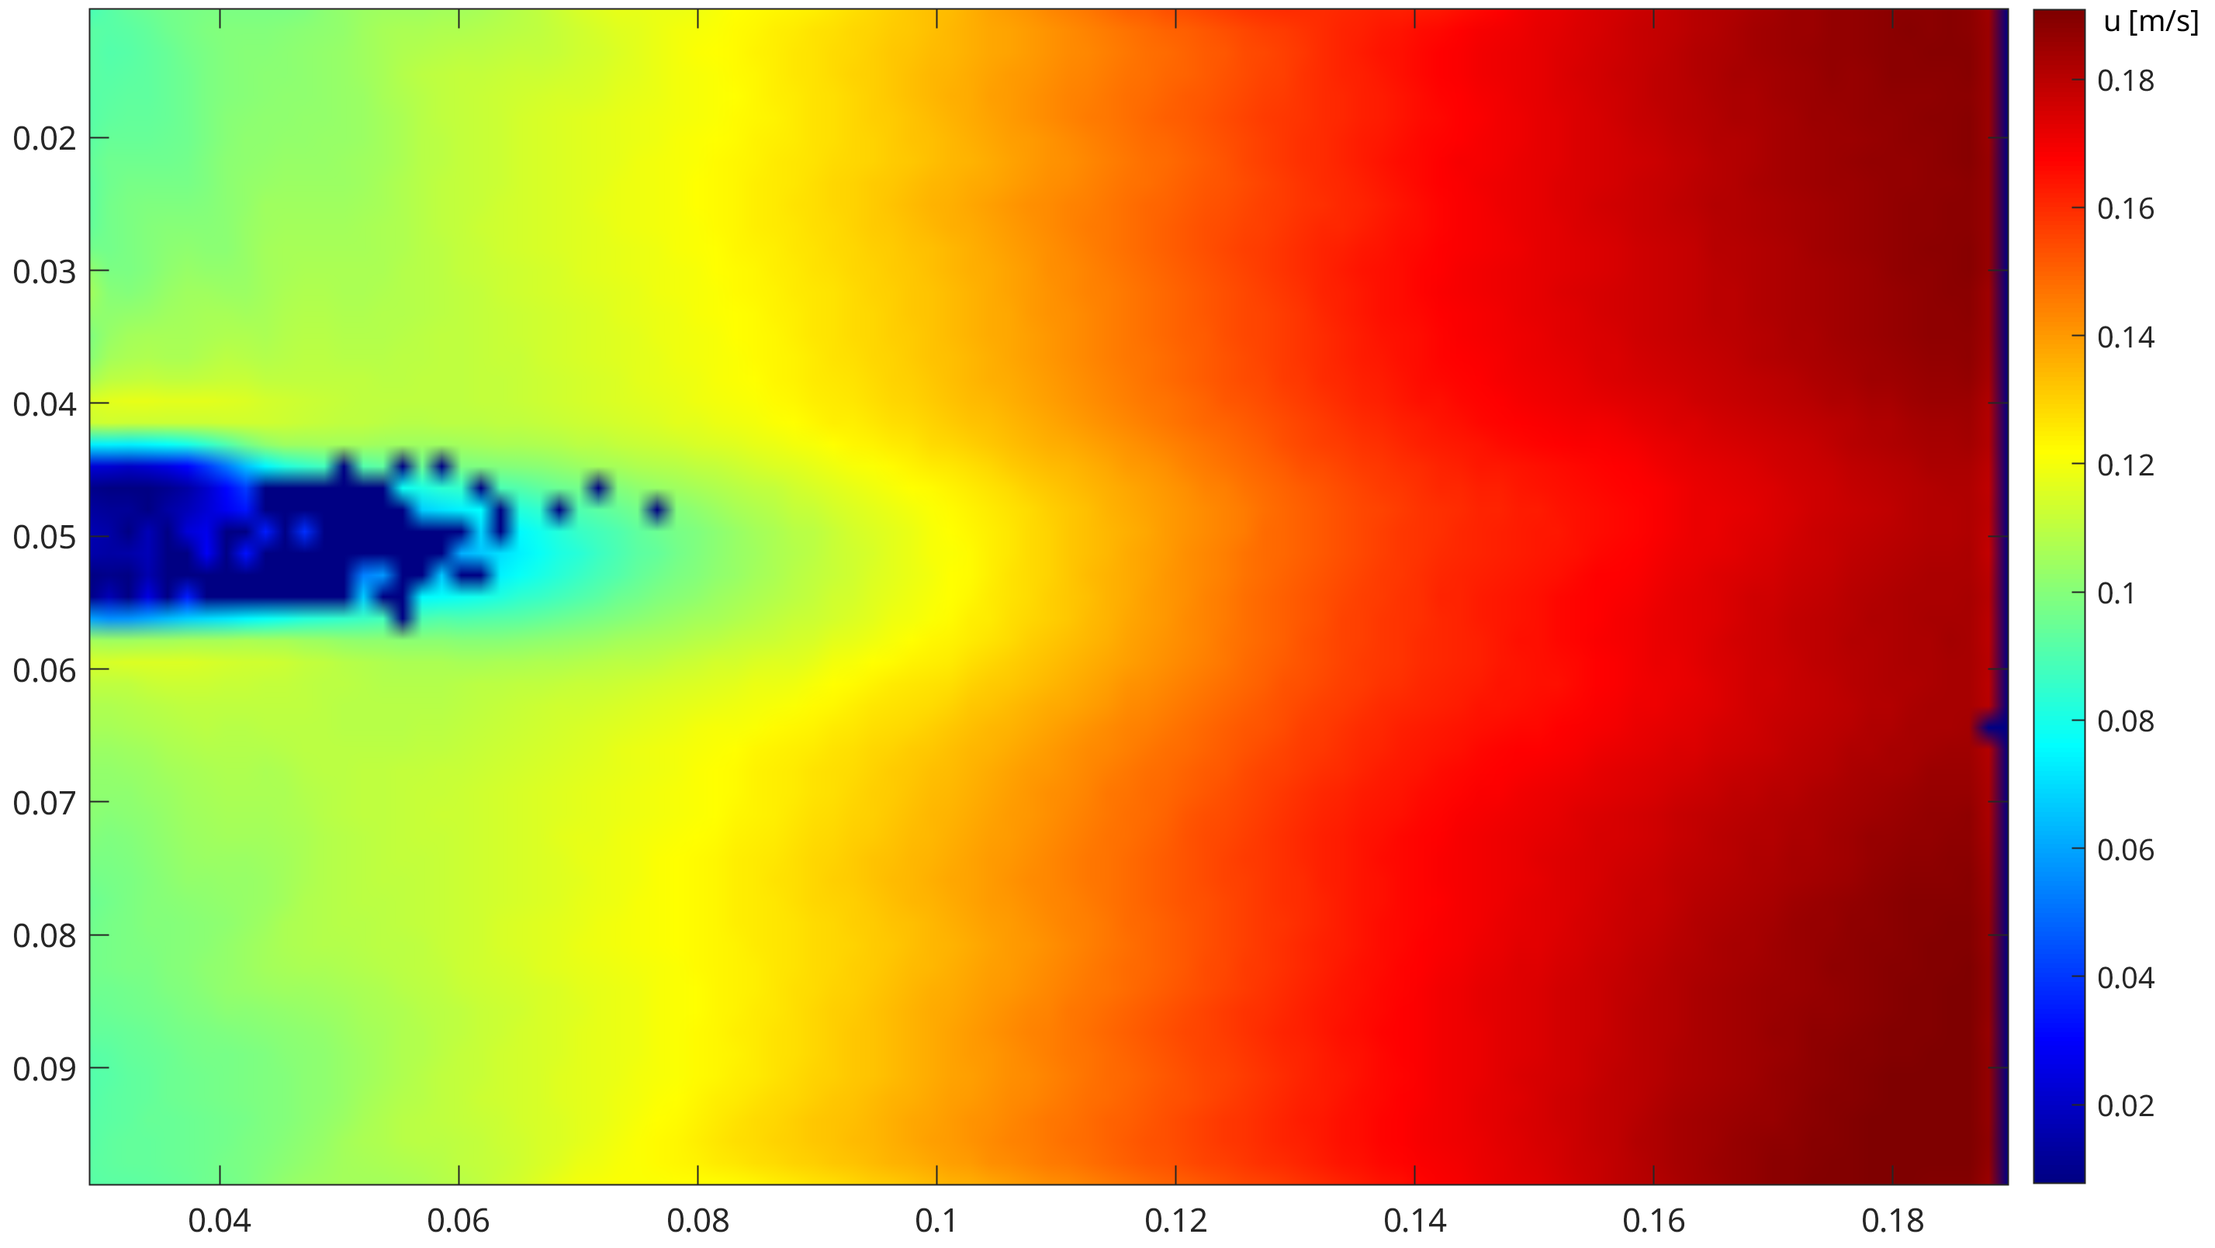
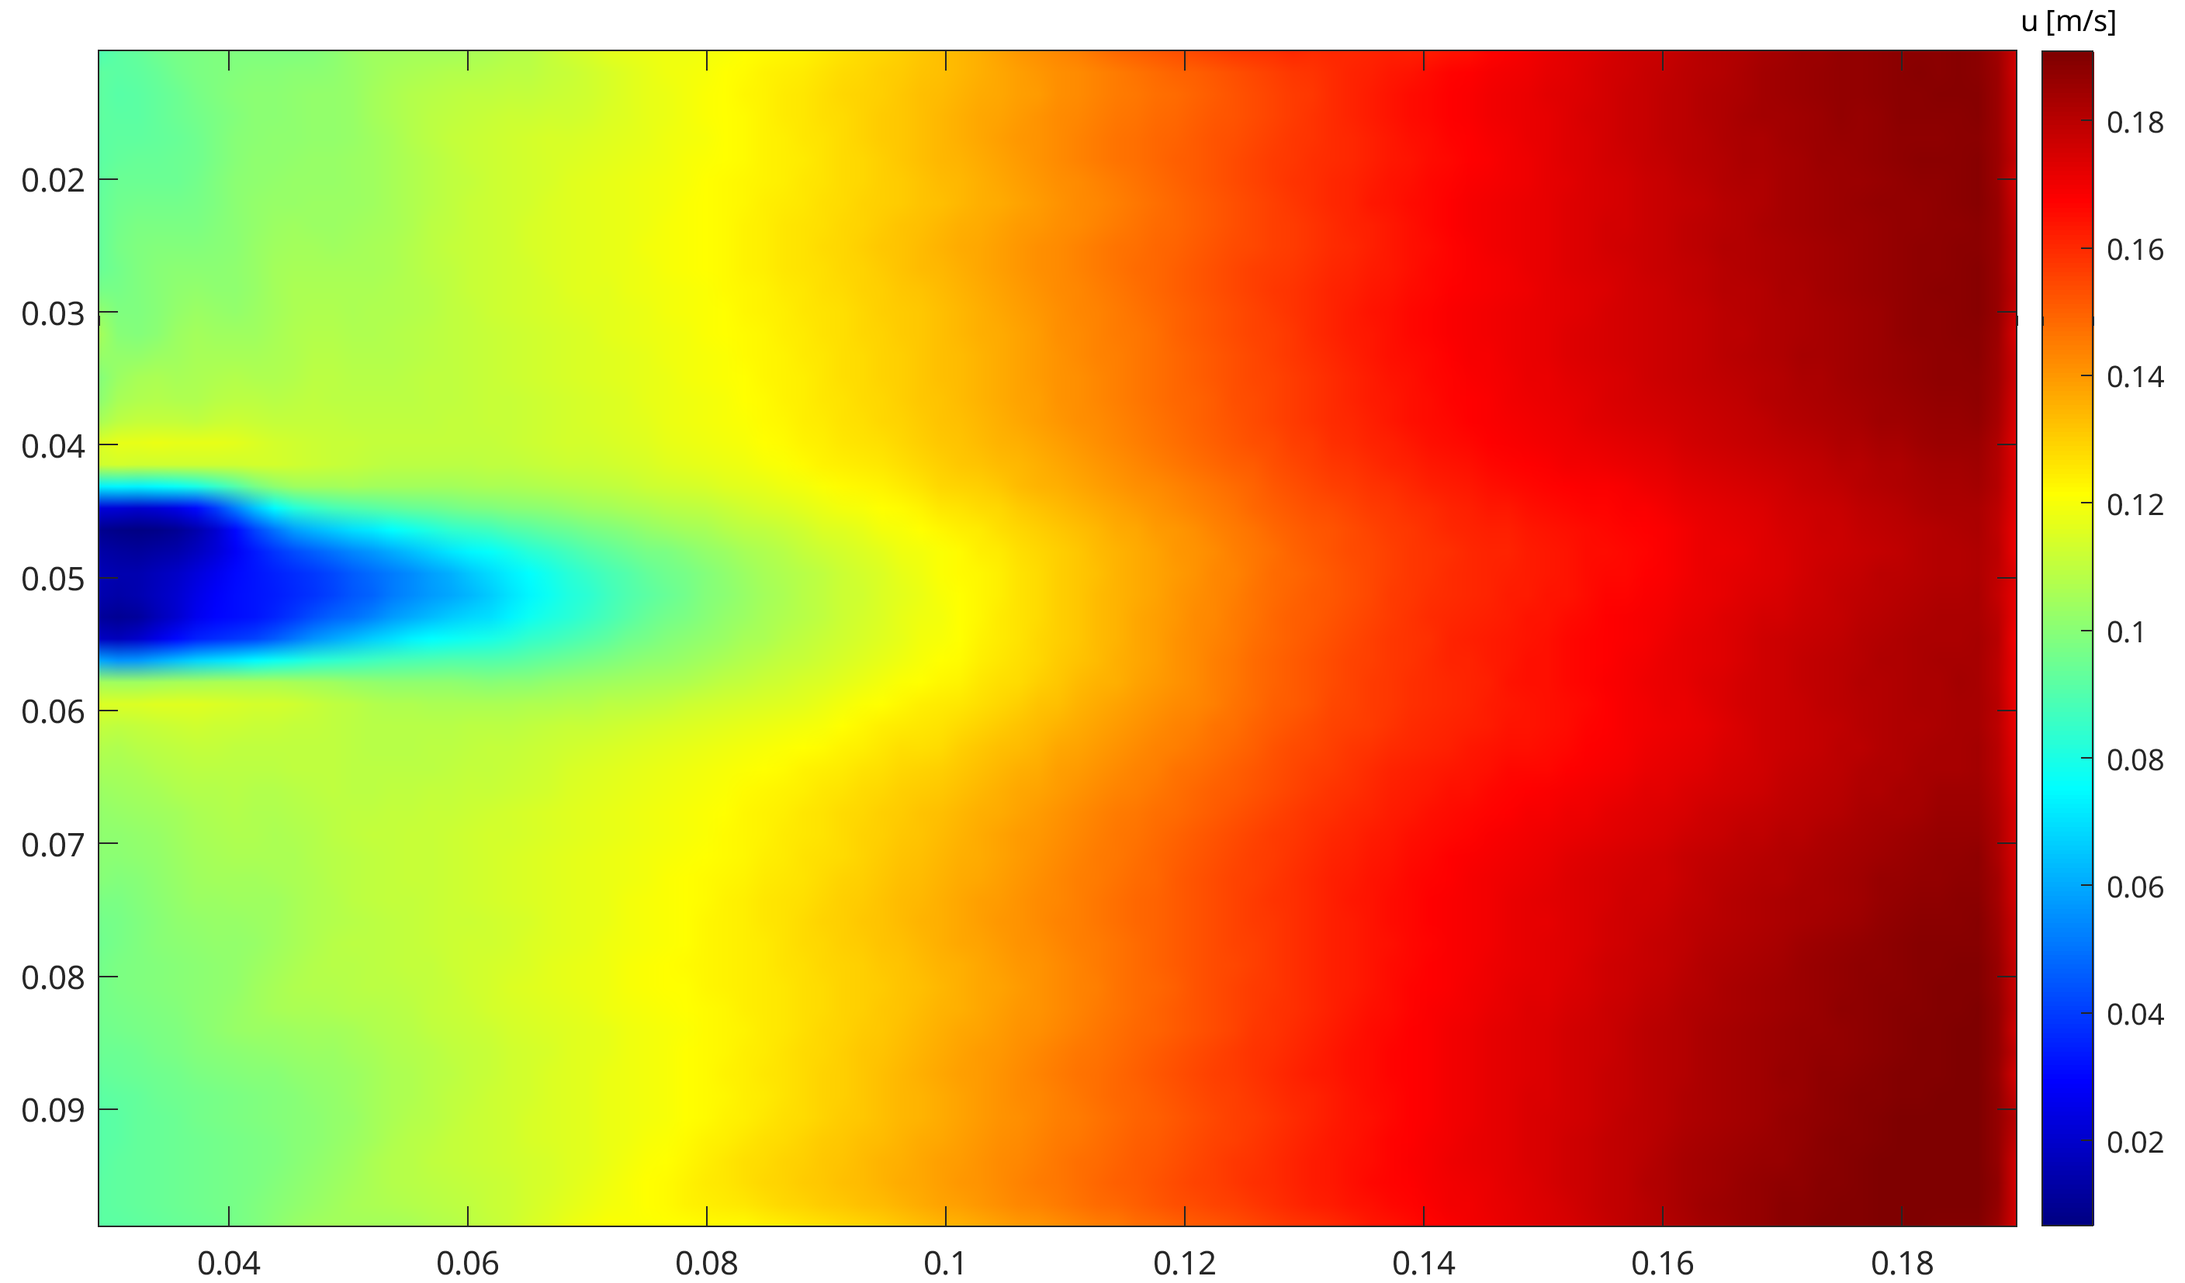
Chapter 11

Changed region(s): [[0.0, 0.0, 1.0, 0.9944]]

diff --git a/chapters/11.tex b/chapters/11.tex
@@ -116,12 +116,12 @@ Il toolbox PIVlab comprende gli algoritmi numerici della PIV con cui si può val
 \subsection{Analisi dati}
 L'analisi dati per la presente attività è condotta con l'ausilio di alcuni codici in Matlab, riportati in appendice \ref{b11}.\\\\
 I file \texttt{.mat} esportati da PIVlab contengono i campi di velocità per ciascun fotogramma dei video analizzati. Utilizzando un codice Matlab, è possibile generare delle animazioni che mostrano il campo di velocità, con una scala di colori per rappresentare l'intensità e delle frecce per indicare la direzione del flusso.
-\subsubsection{Campo di velocità istantanea}
+\subsubsection{Campo istantaneo di velocità}
 Estraendo il campo di velocità in un determinato istante, si ottiene il campo di velocità istantaneo:
 \begin{figure}[H]
     \centering
-    \includegraphics[height=.52\textwidth]{images/11/f300_22b.png}
-    \includegraphics[height=.5\textwidth]{images/11/f300_220.png}
+    \includegraphics[height=.45\textwidth]{images/11/f300_22b.png}
+    \includegraphics[height=.45\textwidth]{images/11/f300_220.png}
     \caption{Campo istantaneo di velocità (cilindro e placca 2022)}
 \end{figure}
 
@@ -135,39 +135,67 @@ Estraendo il campo di velocità in un determinato istante, si ottiene il campo d
 
 \noindent Si osserva come il flusso aumenta di velocità, ciò è dovuto alla geometria convergente del canale idrodinamico. Si osserva inoltre molto chiaramente lo sfilamento vorticoso.
 
-\subsubsection{Campo di velocità media}
+\subsubsection{Campo medio di velocità}
 Mediando il campo di velocità nel tempo, considerando quindi tutti i fotogrammi, si ottiene il seguente diagramma:
 \begin{figure}[H]
     \centering
-    \includegraphics[width=.92\textwidth]{images/11/mean.png}
+    \includegraphics[width=.9\textwidth]{images/11/mean.png}
     \caption{Campo medio di velocità (cilindro 2022)}
 \end{figure}
 
 \noindent Si può pensare di mediare solo le componenti longitudinali $u$ e trasversali $v$ al condotto:
 \begin{figure}[H]
     \centering
-    \includegraphics[width=.92\textwidth]{images/11/Umean.png}
-    \caption{Componente longitudinale della velocità media $u$ (cilindro 2022)}
+    \includegraphics[width=.9\textwidth]{images/11/Umean.png}
+    \caption{Velocità media longitudinale $u$ (cilindro 2022)}
 \end{figure}
 
 \begin{figure}[H]
     \centering
-    \includegraphics[width=.8\textwidth]{images/11/vmean.png}
-    \caption{Componente trasversale della velocità media $v$ (cilindro 2022)}
+    \includegraphics[width=.9\textwidth]{images/11/vmean.png}
+    \caption{Velocità media trasversale $v$ (cilindro 2022)}
 \end{figure}
 
+\noindent Si evince come la componente dominante della velocità del flusso è quella longitudinale.
+
+\subsubsection{Fluttuazioni di velocità}
+Si procede al calcolo delle fluttuazioni di velocità sottraendo in ogni punto la velocità media temporale:
+\begin{equation*}
+    u^\prime(t) = u(t) - \overline u \qquad v^\prime(t) = v(t) - \overline v  
+\end{equation*}
+Diagrammando le fluttuazioni di velocità per uno specifico fotogramma, si osserva molto chiaramente il fenomeno dello sfilamento vorticoso:
+\begin{figure}[H]
+    \centering
+    \includegraphics[width=.95\textwidth]{images/11/flutt.png}
+    \caption{Campo delle fluttuazioni di velocità $\vec V^\prime$ (cilindro 2022)}
+\end{figure}
+\begin{figure}[H]
+    \centering
+    \includegraphics[width=.97\textwidth]{images/11/fluttu.png}
+    \caption{Fluttuazioni di velocità longitudinale $u^\prime$ (cilindro 2022)}
+\end{figure}
+\begin{figure}[H]
+    \centering
+    \includegraphics[width=.97\textwidth]{images/11/fluttv.png}
+    \caption{Fluttuazioni di velocità trasversale $v^\prime$ (cilindro 2022)}
+\end{figure}
+
+\noindent Dal diagramma delle fluttuazioni di velocità trasversale si evince come i vortici siano controrotanti.
+
+\newpage
 \subsubsection{Vortex shedding}
 Per studiare il vortex shedding si può tracciare un diagramma della velocità in funzione del tempo in un punto fisso nello spazio, in corrispondenza dei vortici che si generano. Si ottengono quindi i seguenti risultati:
 \begin{figure}[H]
     \centering
-    \includegraphics[width=.46\textwidth]{images/11/timeseries22.png}
-    \includegraphics[width=.46\textwidth]{images/11/timeseries23.png}
-    \includegraphics[width=.46\textwidth]{images/11/timeseries220.png}
+    \includegraphics[width=.55\textwidth]{images/11/timeseries22.png}
+    \includegraphics[width=.49\textwidth]{images/11/timeseries23.png}
+    \includegraphics[width=.49\textwidth]{images/11/timeseries220.png}
     \caption{Velocità in un punto (cilindro 2022, cilindro 2023, placca 2022)}
 \end{figure}
 
-\noindent Dai diagrammi nel dominio del tempo si evince la presenza di una frequenza dominante, che caratterizza lo sfilamento vorticoso. Una rappresentazione più efficace può essere fatta sfruttando lo spettro di potenza.\\\\
-Questa volta, però, il metodo di Welch non è una soluzione efficiente, in quanto il numero di frame acquisiti (600) è troppo basso per ottenere una stima accurata dello spettro di potenza utilizzando questo approccio. La frequenza di campionamento delle immagini (pari a $f_{samp}=60$ Hz) comporta, secondo il teorema di Nyquist, una massima frequenza rilevabile di 30 Hz. Tuttavia, dato che il segnale non presenta rumore significativo, è più efficiente utilizzare direttamente la FFT (Fast Fourier Transform):
+\noindent Dai diagrammi nel dominio del tempo si evince la presenza di una frequenza dominante, che caratterizza lo sfilamento vorticoso.\\\\
+Una rappresentazione più efficace può essere fatta sfruttando lo spettro di potenza.\\\\
+Questa volta, però, il metodo di Welch non è una soluzione efficiente, in quanto il numero di fotogrammi acquisiti (600) è molto basso. Dato che il segnale non presenta rumore significativo, è più efficiente utilizzare direttamente la FFT (Fast Fourier Transform):
 \begin{equation*}
     \hat u(f) = \Delta t_{samp} \sum_{i=1}^{N_{frames}} u_i e^{-j2\pi f_i \Delta t_{samp}}
 \end{equation*}
@@ -175,25 +203,29 @@ La FFT fornisce una rappresentazione spettrale accurata senza la necessità di s
 Applicando la FFT ai segnali, si ottiene:
 \begin{figure}[H]
     \centering
-    \includegraphics[width=.49\textwidth]{images/11/FFT22.png}
+    \includegraphics[width=.6\textwidth]{images/11/FFT22.png}
     \includegraphics[width=.49\textwidth]{images/11/FFT23.png}
     \includegraphics[width=.49\textwidth]{images/11/FFT220.png}
     \caption{Trasformata di Fourier (cilindro 2022, cilindro 2023, placca 2022)}
 \end{figure}
 
-\noindent Per ricavare lo spettro di potenza dai risultati della FFT, si calcola il modulo al quadrato e si normalizza rispetto al numero di fotogrammi $N_{frames}$:
+\noindent Si osservano dei picchi nella trasformata di Fourier in corrispondenza della frequenza di svilamento dei vortici. I risultati della FFT cambiano a seconda del punto analizzato nello spazio, ma la frequenza che caratterizza lo sfilamento vorticoso rimane la stessa.\\\\
+Per ricavare lo spettro di potenza dai risultati della FFT, si calcola il modulo al quadrato e si normalizza rispetto al numero di fotogrammi acquisiti $N_{frames}$:
 \begin{equation*}
-    P(f) = \left| \frac{\hat u(f)}{N_{frames}} \right|^2
+    P(f) = \frac{ \left|\hat u(f)\right|^2}{N_{frames}} 
 \end{equation*}
+\newpage
+\noindent Successivamente, si diagramma lo spettro di potenza in scala logaritmica:
 \begin{figure}[H]
     \centering
-    \includegraphics[width=.49\textwidth]{images/11/PSD22.png}
+    \includegraphics[width=.55\textwidth]{images/11/PSD22.png}
     \includegraphics[width=.49\textwidth]{images/11/PSD23.png}
-    \includegraphics[width=.55\textwidth]{images/11/PSD220.png}
+    \includegraphics[width=.49\textwidth]{images/11/PSD220.png}
     \caption{Spettro di potenza (cilindro 2022, cilindro 2023, placca 2022)}
 \end{figure}
 
-\noindent Dallo spettro di potenza si ricava la frequenza di shedding $f_s$, inoltre, si può stimare la velocità a monte del flusso $U_\infty$ da un punto non influenzato dai vortici. Si ottiene:
+\noindent Dallo spettro di potenza si ricava quindi il valore di frequenza di shedding $f_s$.\\\\
+Inoltre, si può stimare la velocità a monte del flusso $U_\infty$ prendendo in considerazione un punto non appartenente alla scia. Si ottiene:
 \begin{table}[H]
     \centering
     \begin{tabular}{|c|c|c|}
@@ -234,49 +266,45 @@ Si ottengono i seguenti risultati:
 
 \noindent Il flusso che si sviluppa non risulta essere quello canonico 2D per via della sua dimensione finita che appoggia sulla parete inferiore della camera di prova. Inoltre, il piano di misura è a un diametro di distanza dal fondo, dove si sviluppa il vortice a ferro di cavallo (horseshoe vortex) e sono presenti effetti tridimensionali dovuti all'induzione del vortice. Per questi motivi i casi da studiare differiscono dai flussi canonici bidimensionali, pertanto, l'andamento Reynolds-Strouhal si discosta leggermente da quello studiato per il cilindro 2D utilizzando l'anemometria a filo caldo.
 
-\newpage
-\subsubsection{Fluttuazioni di velocità}
-Si procede al calcolo delle fluttuazioni di velocità sottraendo in ogni punto la velocità media temporale:
-\begin{equation*}
-    u^\prime(t) = u(t) - \overline u \qquad v^\prime(t) = v(t) - \overline v  
-\end{equation*}
-Diagrammando le fluttuazioni di velocità per uno specifico fotogramma, si osserva molto chiaramente il fenomeno dello sfilamento vorticoso:
-% immagine cilindro 22 shedding fluttuazioni istantanee u
-% immagine cilindro 22 shedding fluttuazioni istantanee v
-
-\subsubsection{Conservazione dell'energia (Parseval)}
-Dalle fluttuazioni si può inoltre ricavare la varianza:
-\begin{equation*}
-    \text{var}(\vec V) = \overline{{V^\prime}^2} = \frac 1{N_{frames}} \sum ({u^\prime}^2 + {v^\prime}^2)
-\end{equation*}
+\subsubsection{Conservazione dell'energia (Teorema di Parseval)}
 Secondo il teorema di Parseval, l'energia totale di un segnale nel dominio del tempo è uguale all'energia totale nel dominio delle frequenze. Applicando il teorema al caso in esame, la varianza delle fluttuazioni nel dominio del tempo deve essere uguale all'integrale dello spettro di potenza nel dominio delle frequenze.\\\\
-Considerando un segnale reale $x(t)$, la sua trasformata di Fourier $X(f)$ gode della proprietà di simmetria coniugata, cioè:
+La varianza delle fluttuazioni di velocità si ottiene come:
+\begin{equation*}
+    \text{var}(\vec V) = \overline{{V^\prime}^2} = \frac 1{N_{frames}} \sum_{i=1}^{N_{frames}} \left|{\vec V_i} - {\overline {\vec V}}\right|^2
+\end{equation*}
+Considerando un segnale reale $x(t)$, la sua trasformata di Fourier $X(f)$ gode della proprietà di simmetria coniugata, indicando con $X^*(f)$ il complesso coniugato, questa si scrive come:
 \begin{equation*}
     X(f) = X^*(-f)
 \end{equation*}
-di conseguenza, il suo modulo al quadrato, e quindi anche lo spettro di potenza, è simmetrico:
+di conseguenza, il modulo al quadrato della trasformata di Fourier, e quindi anche lo spettro di potenza, risulta simmetrico:
 \begin{equation*}
     |X(f)|^2 = |X(-f)|^2 \quad \rightarrow \quad P(f) = P(-f)
 \end{equation*}
 L'energia totale nel dominio delle frequenze si calcola come:
 \begin{equation*}
-    E = \int_{-f_{samp}/2}^{f_{samp}/2} P(f) df
+    E = \int_{-\frac{f_{samp}}2}^{\frac{f_{samp}}2} P(f) df 
+\end{equation*}
+questo integrale può essere scomposto nel seguente modo:
+\begin{equation*}
+    \int_{-\frac{f_{samp}}2}^{\frac{f_{samp}}2} P(f) df = \int_{-\frac{f_{samp}}2}^{0} P(f) df + \int_{0}^{\frac{f_{samp}}2} P(f) df
 \end{equation*}
 data la simmetria, si evince che:
 \begin{equation*}
-    \int_{-f_{samp}/2}^{f_{samp}/2} P(f) df = 2\int_0^{\frac{f_{samp}}2} P(f) df
+    \int_{-\frac{f_{samp}}2}^{0} P(f) df + \int_{0}^{\frac{f_{samp}}2} P(f) df = 2\int_0^{\frac{f_{samp}}2} P(f) df
 \end{equation*}
-Pertanto, per il teorema di Paresval, la varianza risulta pari a:
+Pertanto, per il teorema di Parseval, la varianza risulta pari a:
 \begin{equation*}
     \overline{{V^\prime}^2} = 2\int_0^{\frac{f_{samp}}2} P(f) df
 \end{equation*}
-Questa uguaglianza è verificata mediante un codice Matlab.
+Questa uguaglianza è verificata mediante un codice Matlab in ogni punto del dominio di calcolo (appendice \ref{b11}).
 
 \subsubsection{Sforzi di Reynolds}
-Dal campo di fluttuazioni di velocità si possono inoltre ricavare gli sforzi di Reynolds:
+Dal campo di fluttuazioni di velocità si possono infine ricavare gli sforzi di Reynolds:
 \begin{equation*}
     \tau_{Re} = -\rho \overline{u^\prime v^\prime}
 \end{equation*}
+dove con $\rho$ è indicata la densità dell'acqua $\rho = 1000$ kg/m$^3$.\\\\
+Gli sforzi di Reynolds forniscono una visione dettagliata delle interazioni turbolente nella scia del cilindro. La presenza di elevate fluttuazioni turbolente nelle regioni di separazione e ricircolo evidenzia l'importanza dei fenomeni turbolenti nel determinare il comportamento globale del flusso.\\\\
 Si ottiene quindi il seguente diagramma:
 \begin{figure}[H]
     \centering

diff --git a/chapters/scripts.tex b/chapters/scripts.tex
@@ -1324,6 +1324,7 @@ if __name__ == "__main__":
 \subsection{PIV: studio della scia di corpi tozzi}\label{b11}
 Per l'analisi dati della presente esercitazione sono stati utilizzati i seguenti codici in Matlab:
 \begin{lstlisting}[style=Matlab-editor, basicstyle=\ttfamily\footnotesize]
+% Codice per generare i fotogrammi delle animazioni
 close all
 clear
 clc
@@ -1405,8 +1406,10 @@ movie(M, 10, fps);
 \end{lstlisting}
 
 \begin{lstlisting}[style=Matlab-editor, basicstyle=\ttfamily\footnotesize]
+% codice utilizzato per l'analisi dati
 close all
 clear
+clc
 
 anno = 222;
 
@@ -1439,9 +1442,19 @@ end
 load(filename)
 frames = length(u_original);
 
+% NAN FIX
+for frame = 1:frames
+    mat = u_original{frame};
+    mat(isnan(mat)) = 0;
+    u_original{frame} = mat;
+    mat = v_original{frame};
+    mat(isnan(mat)) = 0;
+    v_original{frame} = mat;
+end
+
+% Calcolo della velocità in un punto e della velocità a monte
 u = zeros(frames, 1);
 u_inf = zeros(frames, 1);
-
 for frame=1:frames
     u_inf(frame) = sqrt(u_original{frame}(iy_inf, ix_inf)^2 + v_original{frame}(iy_inf, ix_inf)^2);
     u(frame) = sqrt(v_original{frame}(iy, ix)^2 + u_original{frame}(iy, ix)^2);
@@ -1454,6 +1467,7 @@ ylabel("u [m/s]")
 grid minor
 print(k, sprintf('images/timeseries%d.png', anno), '-dpng', '-r300');
 
+% Calcolo della trasformata di Fourier
 Fs = fps;
 Nx = length(u);
 f = (0:floor(Nx/2)) * (Fs/Nx);
@@ -1469,10 +1483,12 @@ ylabel('Fast Fourier Transform [m/s]')
 grid on
 print(q, sprintf('images/FFT%d.png', anno), '-dpng', '-r300');
 
+% Calcolo dello spettro di potenza
 j = figure();
 Pxx = (1/(Fs*Nx)) * abs(U).^2;
 Pxx = Pxx(1:floor(Nx/2)+1);
 loglog(f, Pxx);
+
 xlabel('f [Hz]')
 ylabel('Power Spectral Density (PSD) [J/kg]')
 grid on
@@ -1482,8 +1498,9 @@ print(j, sprintf('images/PSD%d.png', anno), '-dpng', '-r300');
 disp("Frequenza di shedding: " + f(ind) + " Hz")
 
 U_inf = mean(abs(u_inf(isfinite(u_inf))));
-disp("Velocita' a monte: " + U_inf)
+disp("Velocità a monte: " + U_inf)
 
+% Calcolo dei numeri di Reynolds e Strouhal
 if anno == 220
     D = 0.024;
 else
@@ -1510,7 +1527,7 @@ set(h, "Position", [left, bottom, frameWidth, frameHeight]);
 disp("Playing animation...")
 movie(M, 10, fps);
 
-%% Campo istantaneo
+%% Campo istantaneo di velocità
 frame = 326;
 uist = u_original{frame};
 vist = v_original{frame};
@@ -1532,28 +1549,32 @@ print(hh, sprintf('images/f300_%b.png', anno), '-dpng', '-r300');
 
 %% Campo medio e fluttuazioni
 [nr, nc] = size(u_original{1});
-
+% Campo medio
 uavg = zeros(nr, nc);
 vavg = zeros(nr, nc);
-
 for frame = 1:frames
     uavg = uavg + u_original{frame};
     vavg = vavg + v_original{frame};
 end
-
 uavg = uavg/frames;
 vavg = vavg/frames;
-
+Vavg = sqrt(uavg.^2 + vavg.^2);
+% Fluttuazioni
 u_flutt = u_original;
 v_flutt = v_original;
+flutt = u_original;
 for frame = 1:frames
     u_flutt{frame} = u_original{frame} - uavg;
     v_flutt{frame} = v_original{frame} - vavg;
+    flutt{frame} = sqrt(u_flutt{frame}.^2 + v_flutt{frame}.^2);
 end
-
+% Teorema di Parseval
 ix = 14;
 iy = 17;
-
+u = zeros(frames, 1);
+for frame=1:frames
+    u(frame) = sqrt(v_original{frame}(iy, ix)^2 + u_original{frame}(iy, ix)^2);
+end
 var = 0;
 for frame = 1:frames
     var = var + (u(frame) - mean(u))^2;
@@ -1562,24 +1583,28 @@ var = var/frames;
 pars = 2*trapz(linspace(0,30,300), Pxx);
 disp("Varianza: " + var + " m2/s2")
 disp("Integrale dello spettro di potenza: " + pars + " J/kgs")
-
+% Sforzi di Reynolds
 rho = 1000;
-tauRe = u_original;
-TAURE = zeros(nr, nc);
+tauReist = u_original;
+tauRe = zeros(nr, nc);
 for frame = 1:frames
-    tauRe{frame} = -rho .* u_flutt{frame} .* v_flutt{frame};
-    TAURE = TAURE + tauRe{frame};
+    tauReist{frame} = -rho .* u_flutt{frame} .* v_flutt{frame};
+    tauRe = tauRe + tauReist{frame};
 end
-TAURE = TAURE/frames;
+tauRe = tauRe/frames;
 
+%% Genera immagine
+frame = 326;
 fig = figure();
 set(fig, "Position", [left, bottom, frameWidth, frameHeight]);
-imagesc(xf(1,:),yf(:,1),TAURE,'Interpolation','bilinear');
+imagesc(xf(1,:),yf(:,1), tauRe,'Interpolation','bilinear');
 hold on
 axis([x_min x_max y_min y_max]);
 colormap(jet)
 clb=colorbar;
+% clim([0 0.08])
 title(clb,'\tau_{Re} [N/m^2]')
+% quiver(xf,yf,u_flutt{frame}, v_flutt{frame}, 'Color','k')
 print(fig, "images/tauRe.png", '-dpng', '-r300');
 
 %% Confronto Reynolds-Strouhal
